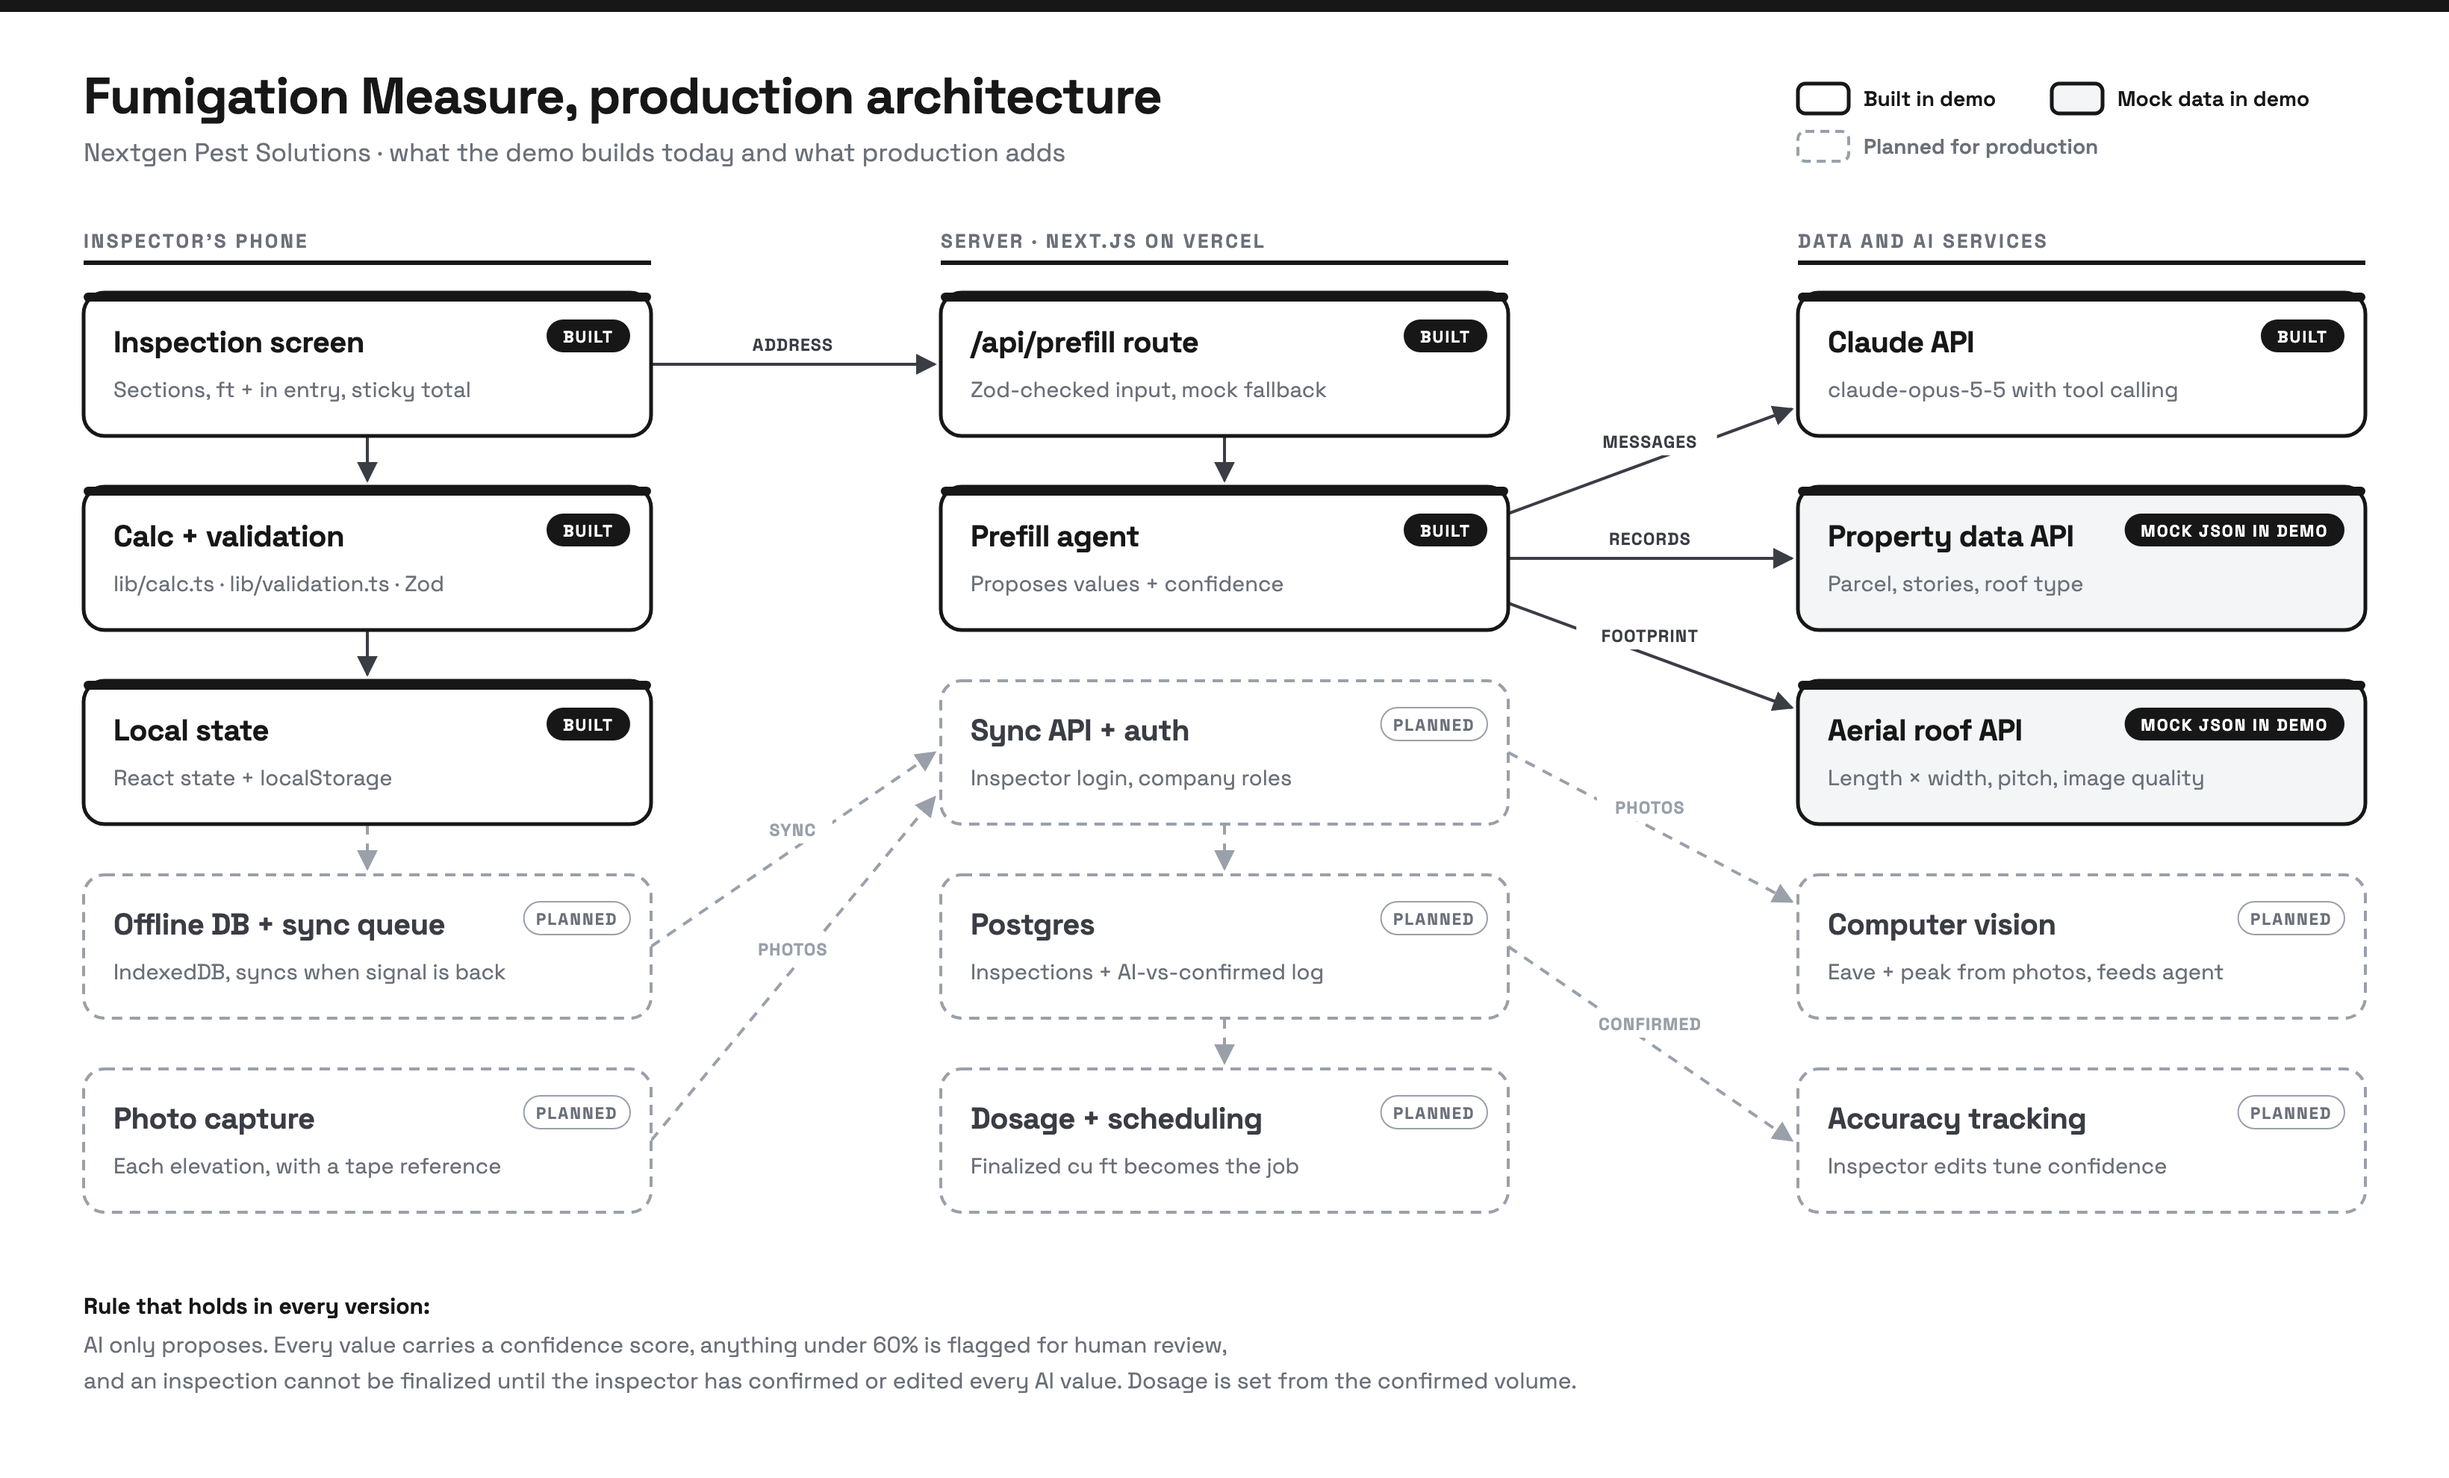
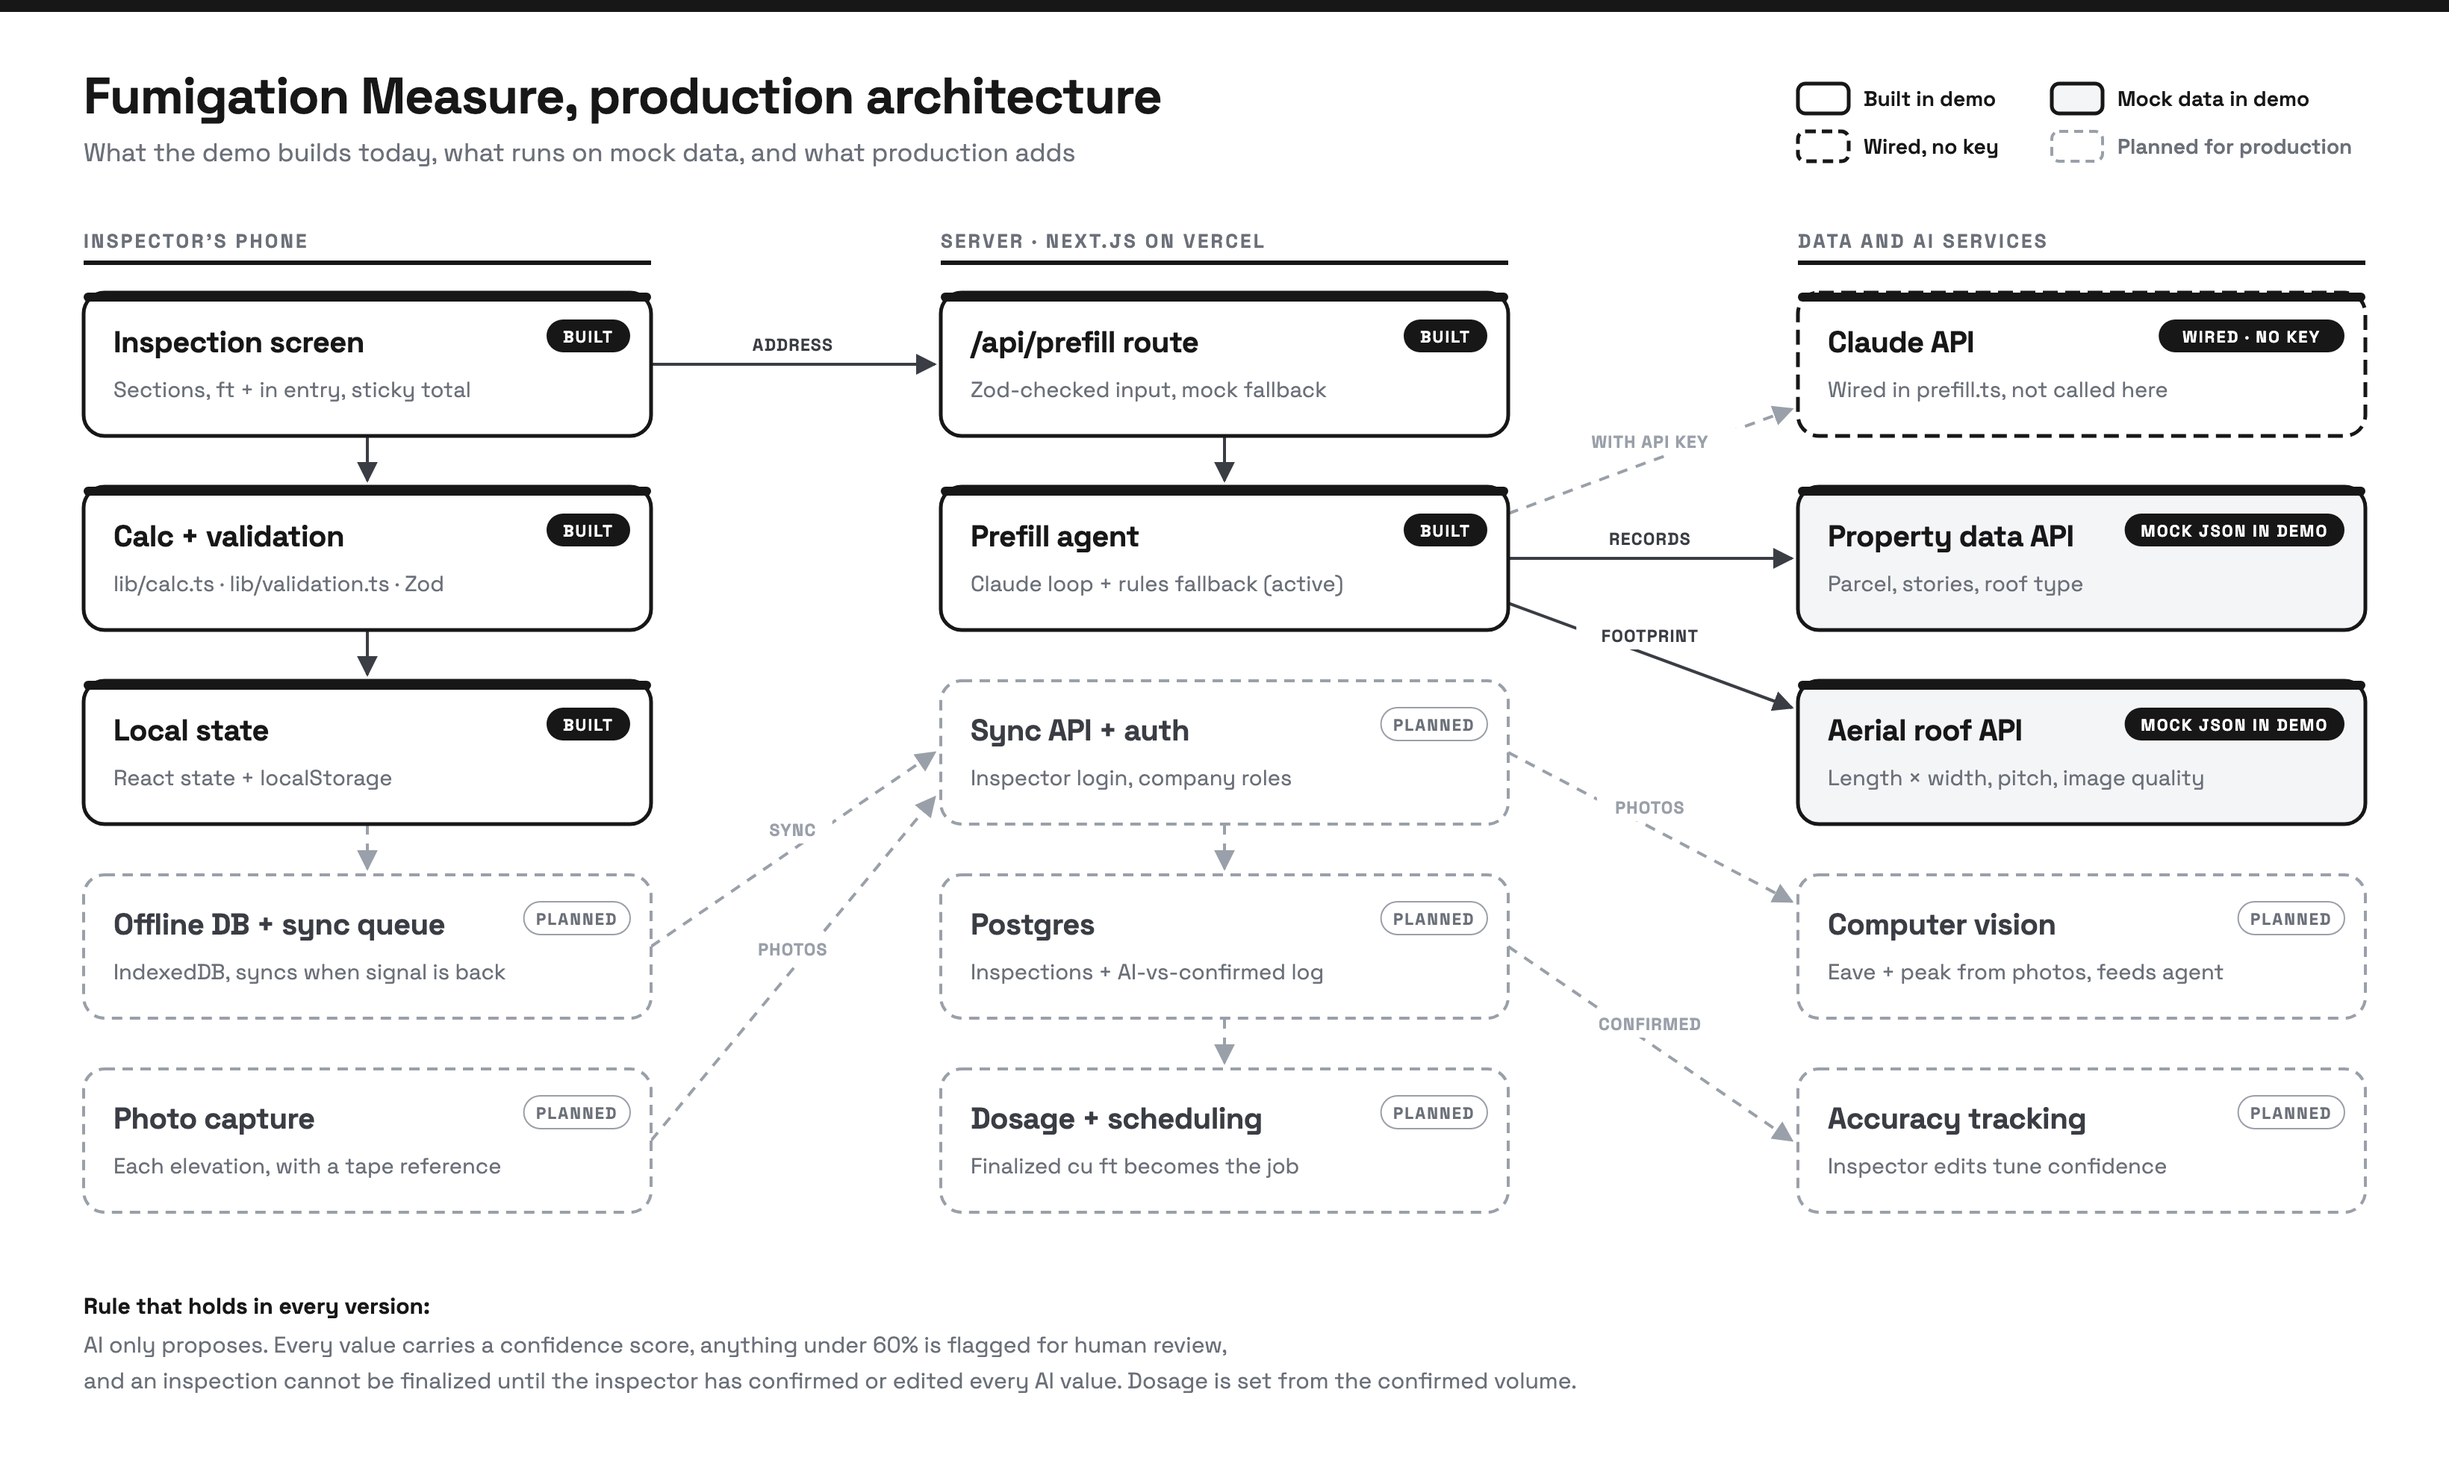
README and diagram: state demo status, mock data and wired Claude path
Add a disclaimer at the top: demo for a job application, all property and
roof data mock, Claude path wired but replaced by a rules-based fallback
because no API key is set. Add a built/mock/wired/planned table that
matches the diagram, and mark the Claude API box as wired, no key.

diff --git a/README.md b/README.md
@@ -1,13 +1,19 @@
 # Fumigation Measure (demo)
 
-A mobile-first web app for structural fumigation inspectors. The inspector measures each section of a structure (eave height, peak height, length, width), and the app works out average height, cubic volume per section, and total cubic feet. An AI prefill agent proposes measurements from property records and a roof footprint, and the inspector confirms or edits every value.
+> **Demo built for my application to Nextgen Pest Solutions.** It's a presentation piece, not production software, and it isn't affiliated with or endorsed by them.
+>
+> - **All property and roof data is MOCK.** The two data tools read [`data/mock-property-data.json`](data/mock-property-data.json). Nothing comes from a real county record or imagery provider.
+> - **The Claude tool-calling path is wired but isn't used in this deployment.** No Anthropic API key is set, so AI prefill runs a rules-based fallback over the same two mock tools. Every response says which mode ran ("Canned mock agent" in the UI).
+> - Inspections are saved in the browser's localStorage only. Customer and inspector names are made up.
 
-**This is a demo, not production.** It runs on sample data, stores everything in the browser, and the property and roof "APIs" return clearly labelled mock JSON.
+Live: https://fumigation-measure.vercel.app
+
+A mobile-first web app for structural fumigation inspectors. The inspector measures each section of a structure (eave height, peak height, length, width), and the app works out average height, cubic volume per section, and total cubic feet. An AI prefill step proposes measurements from property records and a roof footprint, and the inspector confirms or edits every value.
 
 ![Architecture](docs/architecture.png)
 
 <details open>
-<summary>Same diagram in Mermaid (solid = built in demo, grey = mock data in demo, dashed = planned)</summary>
+<summary>Same diagram in Mermaid (solid = built, grey = mock data, black dashed = wired but no key, grey dashed = planned)</summary>
 
 ```mermaid
 flowchart LR
@@ -20,13 +26,13 @@ flowchart LR
   end
   subgraph Server["Server: Next.js on Vercel"]
     API["/api/prefill<br/>Zod-checked, mock fallback"]:::built
-    AGENT["Prefill agent<br/>values + confidence"]:::built
+    AGENT["Prefill agent<br/>Claude loop + rules fallback (active)"]:::built
     SYNC["Sync API + auth"]:::planned
     DB[("Postgres<br/>inspections + AI-vs-confirmed log")]:::planned
     HAND["Dosage + scheduling handoff"]:::planned
   end
   subgraph Services["Data and AI services"]
-    CLAUDE["Claude API<br/>claude-opus-5-5, tool calling"]:::built
+    CLAUDE["Claude API<br/>wired in prefill.ts, not called (no key)"]:::wired
     PROP["Property data API<br/>(mock JSON in demo)"]:::mock
     ROOF["Aerial roof API<br/>(mock JSON in demo)"]:::mock
     CV["Computer vision<br/>eave + peak from photos"]:::planned
@@ -34,7 +40,7 @@ flowchart LR
   end
   UI --> CALC --> LS -.-> IDB
   UI -- address --> API --> AGENT
-  AGENT -- messages --> CLAUDE
+  AGENT -. with API key .-> CLAUDE
   AGENT -- get_property_records --> PROP
   AGENT -- get_roof_footprint --> ROOF
   IDB -. sync .-> SYNC
@@ -44,11 +50,31 @@ flowchart LR
   CV -. heights .-> AGENT
   DB -. confirmed values .-> ACC
   classDef built fill:#ffffff,stroke:#171717,stroke-width:2.5px,color:#171717
+  classDef wired fill:#ffffff,stroke:#171717,stroke-width:2.5px,stroke-dasharray:8 4,color:#171717
   classDef mock fill:#f4f5f7,stroke:#171717,stroke-width:2.5px,color:#171717
   classDef planned fill:#ffffff,stroke:#9aa0a9,stroke-width:2px,stroke-dasharray:6 4,color:#3a3d44
 ```
 
 </details>
+
+### Built, mock, or planned
+
+Matches the diagram: solid boxes are built, grey boxes run on mock data, the black dashed box is wired but unused (no key), and grey dashed boxes are planned.
+
+| Component | Status in this demo | Where |
+|---|---|---|
+| Inspection screen, sections, ft + in entry, sticky total | **Built** | `app/inspections/[id]/page.tsx`, `components/` |
+| Volume calculation | **Built** (Vitest-tested) | `lib/calc.ts` |
+| Validation: hard errors, soft warnings, finalize gate | **Built** (Vitest-tested) | `lib/validation.ts` |
+| Local state | **Built**, localStorage only | `lib/store.tsx` |
+| `/api/prefill` route | **Built** | `app/api/prefill/route.ts` |
+| Prefill agent: Claude tool-calling loop | **Built and wired, not active** (no API key, so the rules-based fallback runs) | `lib/agent/prefill.ts` (`runLive`, `runMock`) |
+| Claude API | **Wired, not called** in this deployment | `lib/agent/prefill.ts` |
+| Property data API (`get_property_records`) | **Mock**: tool is real, data is mock JSON | `lib/agent/property-tools.ts` |
+| Aerial roof API (`get_roof_footprint`) | **Mock**: tool is real, data is mock JSON | `lib/agent/property-tools.ts` |
+| Offline DB + sync queue, sync API + auth, Postgres | **Planned** | — |
+| Photo capture, computer vision for heights | **Planned** | — |
+| Accuracy tracking, dosage + scheduling handoff | **Planned** | — |
 
 ## What the demo shows
 
@@ -58,7 +84,7 @@ flowchart LR
   - *Hard errors* block the section: an empty or zero value, or a peak lower than the eave.
   - *Soft warnings* need a "confirm" tap: an eave under 7 ft or over 30 ft, a peak over 45 ft, a roof rise over 25 ft, a length or width under 4 ft or over 200 ft, or a section more than 6× the next-largest one (usually a typo).
   - Why it matters: fumigant dosage is calculated from cubic volume. Get the volume wrong and the dose is wrong too.
-- **AI prefill** in [`lib/agent/prefill.ts`](lib/agent/prefill.ts): Claude calls `get_property_records(address)` and `get_roof_footprint(address)` and returns one proposal per section, with a confidence for every value. Each value shows an "AI suggested · 82% confidence · Confirm" badge. Anything under 60% also gets a **Needs human review** flag. AI never overwrites a value the inspector typed, and the inspection can't be finalized while any AI value is unconfirmed.
+- **AI prefill** in [`lib/agent/prefill.ts`](lib/agent/prefill.ts): the agent calls `get_property_records(address)` and `get_roof_footprint(address)` (both MOCK) and returns one proposal per section, with a confidence for every value. With an API key, Claude drives those tool calls. In this deployment there's no key, so a rules-based fallback calls the same tools and returns proposals in the same shape. Each value shows an "AI suggested · 82% confidence · Confirm" badge. Anything under 60% also gets a **Needs human review** flag. AI never overwrites a value the inspector typed, and the inspection can't be finalized while any AI value is unconfirmed.
 - **Summary screen**: a per-section table (stacked cards on a phone), the total, a list of anything still blocking, and **Finalize**.
 - **Demo polish**: two sample inspections load on first run (a single-section house in Tampa, and a Sarasota house with a garage and a pool bath addition). There's a "Demo · sample data" badge and a **Reset demo** button.
 
@@ -71,7 +97,7 @@ flowchart LR
 | Formula documented as exact for a **simple gable** | Box to the eave plus a triangular roof prism. For hip roofs it overestimates slightly, which is the safe side for dosage. |
 | Two tiers of checks | Hard errors are never right. Soft warnings are sometimes right (a tall church), so the inspector confirms instead of being blocked. |
 | AI fills only empty fields; every AI value starts *pending* | The inspector is accountable for the number. AI saves typing but never decides. |
-| Live Claude with a mock fallback | No key, a timeout or an API error all fall back to the same tools plus fixed rules. The demo can't break live. |
+| Claude tool calling with a rules-based fallback | No key, an API error, or a live run slower than 25 seconds all fall back to the same tools plus fixed rules, well inside the route's 60 s limit. The demo can't break live. |
 | `localStorage` instead of a database | Enough for a 4-minute demo. The production path is on the diagram. |
 
 ## Run it
@@ -82,7 +108,7 @@ npm run dev          # http://localhost:3000
 npm test             # Vitest: calc, validation, mock agent
 ```
 
-Optional, for live AI prefill:
+Optional, to run the Claude path locally (the public deployment deliberately doesn't):
 
 ```bash
 echo "ANTHROPIC_API_KEY=sk-ant-..." > .env.local
